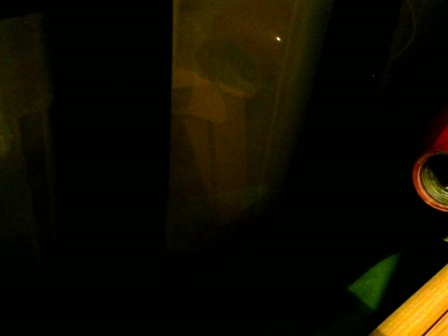
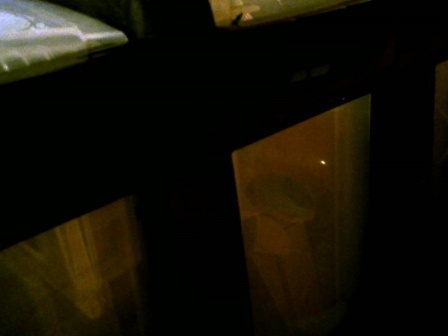
Kommunikáció javítások Navmot komunikáció lista hely joytick jó csúszka módosítás Teszt: 	A joystick - tengeralattjáró kommunikáció ideje kevesebb mint 0,4 sec 	Ez a kommunikáci a leghosszabb az egész rendszerben, a többi mind kevesbb

diff --git a/src-cpp/vezerlo-gui/gui.cpp b/src-cpp/vezerlo-gui/gui.cpp
@@ -148,9 +148,7 @@ GUI::~GUI()
 
 void GUI::fps()
 {
-    int sz;
     //ujraproba:
-        sz++;
         QPixmap pm2 = QPixmap("..\\vezerlo-gui\\program-datas\\live.jpg"); // <- path to image file
         if (pm2.isNull()!=1){//ha a kép létezik:
             ui->ad->setPixmap(pm2);
@@ -310,8 +308,8 @@ void GUI::update()
                 navmota=int(-joystickAdatok[1]*1023);
                 navmotf=0;
             }
-            ui->slid4->setValue(navmota);
-            ui->slid5->setValue(navmotf);
+            ui->slid4->setValue(navmotf);
+            ui->slid5->setValue(navmota);
         }
 
     }
@@ -342,13 +340,13 @@ void GUI::update()
     idl.append(0);//8 jobb vezérsík - üres
     idl.append(0);//9 motor reset kérés
     idl.append(bmot);//10 motor1 %
-    idl.append(navmotf);//11 Navigációs motor felső
-    idl.append(navmota);//12 Navigációs motor alsó
+    idl.append(0);//11 --
+    idl.append(0);//12 --
     idl.append(0);//13 SSH reset kérés
     idl.append(0);//14 Küldés időpontja
     idl.append(0);//15 robotkar adatok ...
-    idl.append(0);//16 robotkar adatok ...
-    idl.append(0);//17 robotkar adatok ...
+    idl.append(navmotf);//16 Navigációs motor felső
+    idl.append(navmota);//17 Navigációs motor alsó
     idl.append(0);//18 robotkar adatok ...
     idl.append(0);//19 robotkar adatok ...
     idl.append(0);//20 robotkar adatok ...
